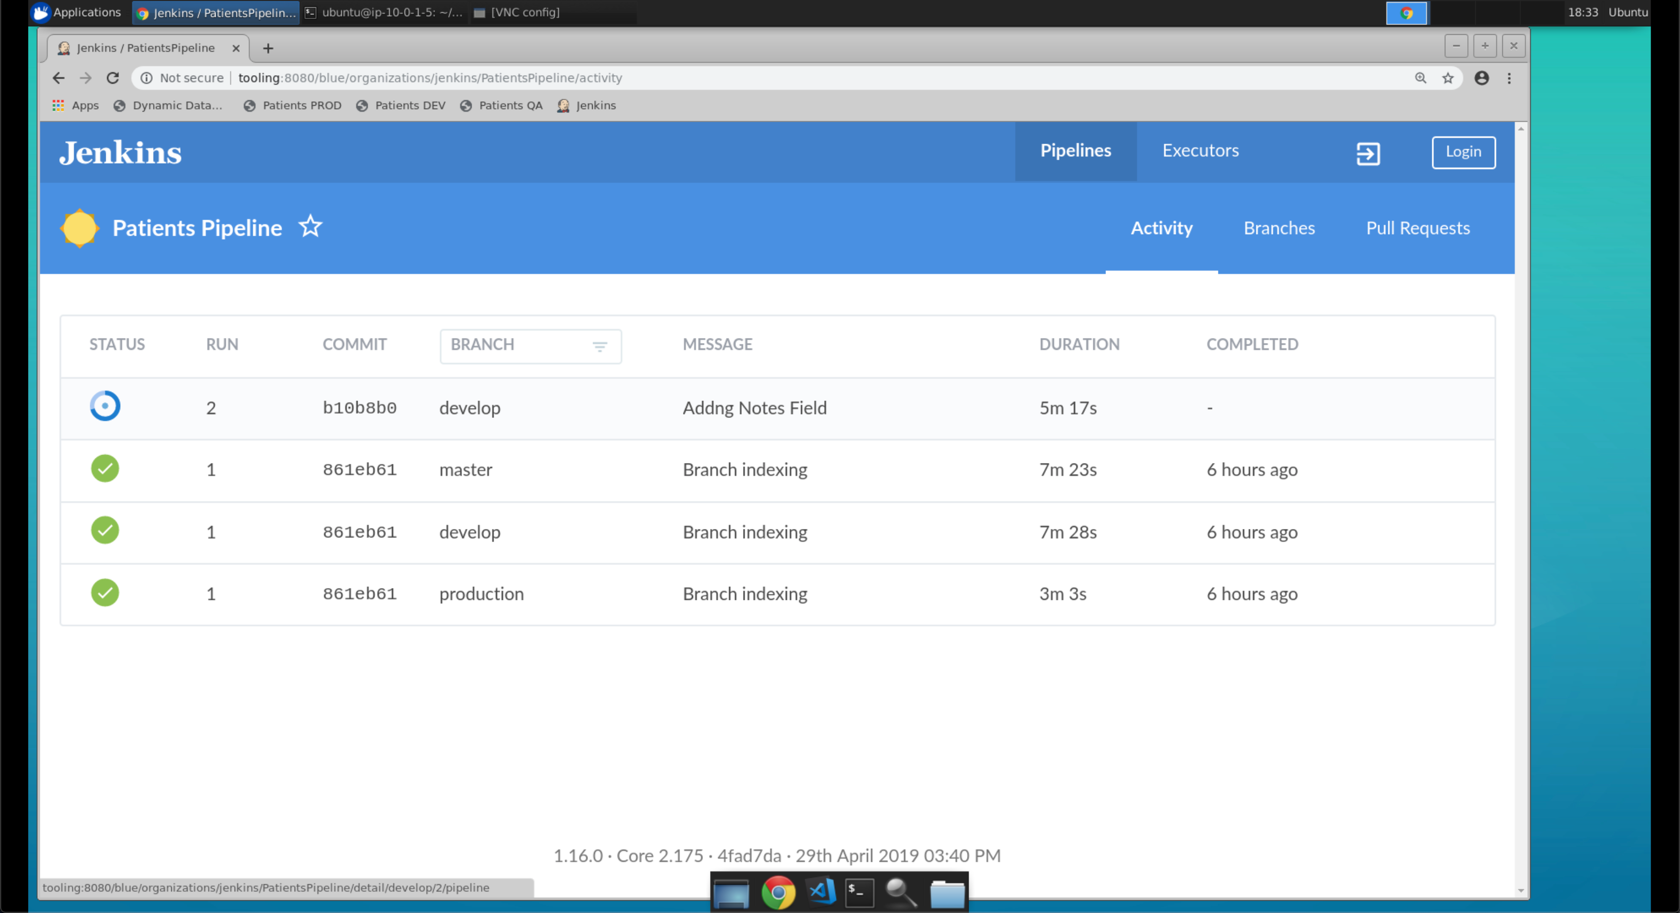
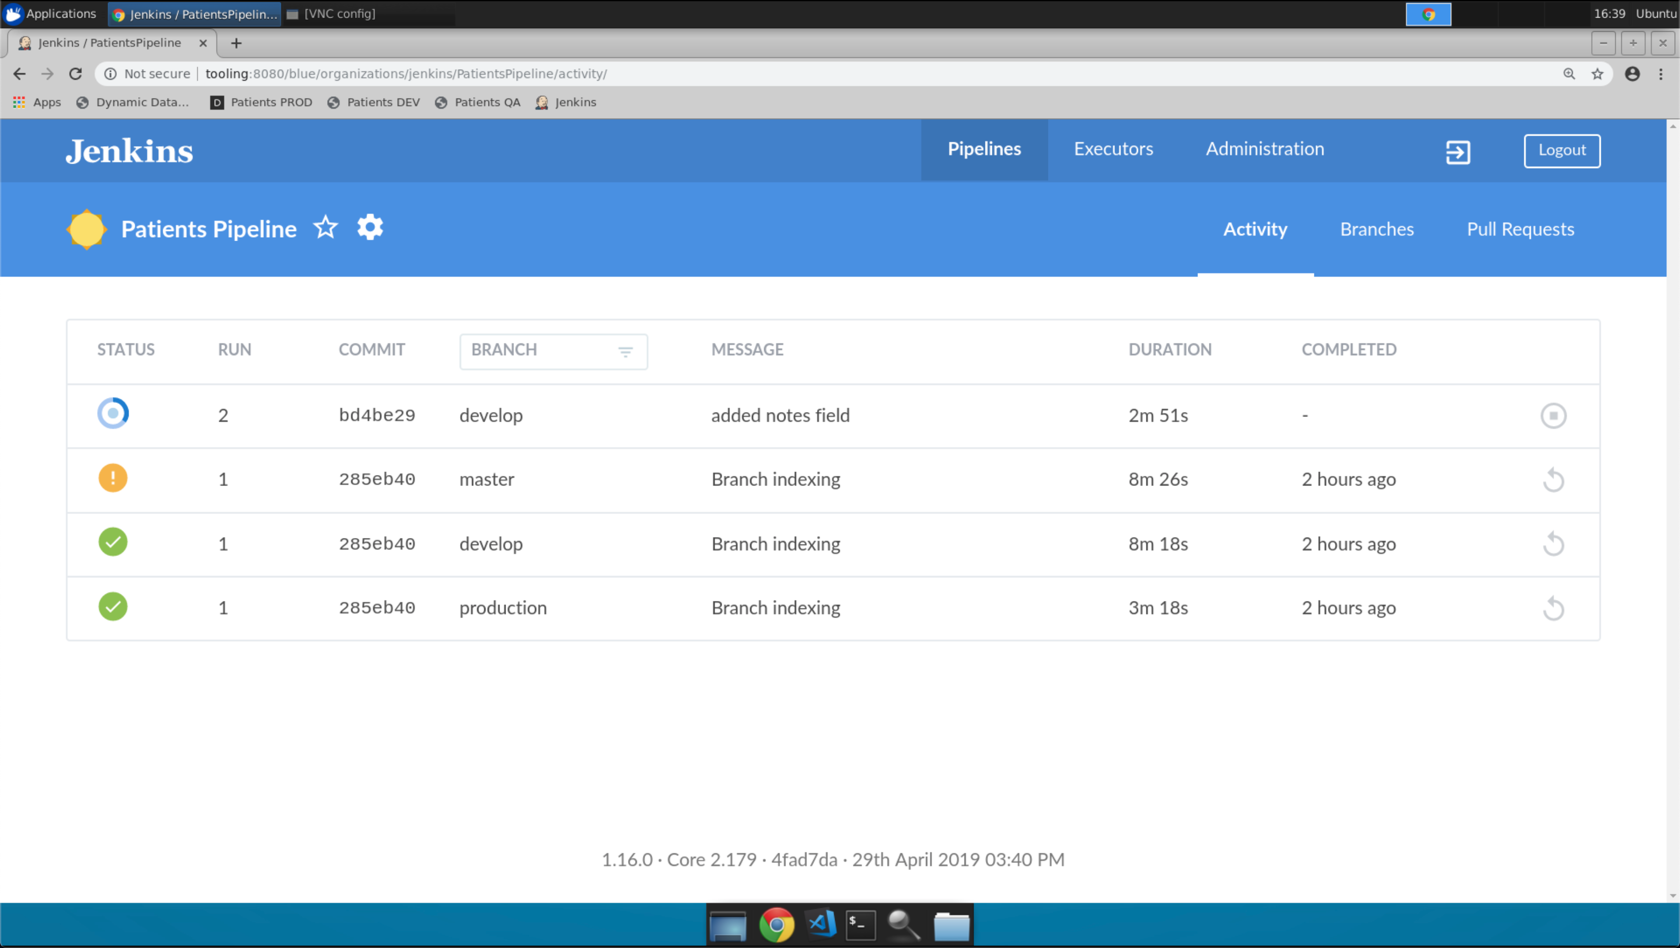
changes

diff --git a/pages/tcw/actii/tcw_actii_4.md b/pages/tcw/actii/tcw_actii_4.md
@@ -10,33 +10,48 @@ folder: tcw
 toc: false
 ---
 
-The `Automated Test` job has a red dot next to it now, which means the testing failed.
+Our Job completed, but the build is unstable (orange with an `!`).
+It appears that our tests have failed in the `Automated Testing` phase.
 
-In this scene, we will first take a look in Bugzilla to ascertain what happened. Next, we will validate the bug report against what we see in QA. Finally, we will look at the corresponding bookmark on our QA data pod in the Delphix DDP.
+In this scene, we will first take a look at the test artifacts in Jenkins to ascertain what happened.
+Next, we will login to Bugzilla and validate the bug report against what we see in QA.
+Finally, we will look at the corresponding bookmark on our `Test` data pod in the Delphix DDP.
 
 ### YOUR STEPS FOR THIS SCENE:
 
-1. Activate the Bugzilla tab.
-2. Click Browse
-   {% include custom/image_popout.html file="acti/oh_snap_a_bug_1.png" %}
-3. Click TestComponent
-   {% include custom/image_popout.html file="acti/oh_snap_a_bug_2.png" %}
-4. Click on the most recent job. It is #3 in the example below. The job name in the summary should match the Automated Testing job number you captured from the last scene.
-   {% include custom/image_popout.html file="acti/oh_snap_a_bug_3.png" %}
-5. View the different objects in the bug. Can you figure out what went wrong?
-6. Click after_test.png. Egads! All 1M employee records have been deleted! That’s not good.
-   {% include custom/image_popout.html file="acti/oh_snap_a_bug_4.png" %}
-7. Let’s reconcile what we see in the screenshot against the QA environment. Activate the QA Instance tab
-8. Click the QA Instance bookmark to refresh the page
-   {% include custom/image_popout.html file="acti/oh_snap_a_bug_5.png" %}
-9. Ack!
-   {% include custom/image_popout.html file="acti/oh_snap_a_bug_6.png" %}
-10. Activate the Delphix Engine tab.
-11. Login as qa, if your login has timed out.
-    {% include custom/image_popout.html file="acti/oh_snap_a_bug_7.png" %}
-12. Click on `QA Data Pod` 
-    {% include custom/image_popout.html file="acti/oh_snap_a_bug_8.png" %}
-13. Click on the most recent bookmark icon. Does it match the job number from the last scene? Does the bug tag on the bookmark match the defect in bugzilla?
-14. The bookmark has been shared back with the developer. Let’s make the dev clean up their own mess.
-    {% include custom/image_popout.html file="acti/oh_snap_a_bug_9.png" %}
+1. Activate the Jenkins tab
+2. Click on the `Tests` button (in purple rectangle below)
+   {% include custom/image_popout.html file="actii/oh_snap_a_bug_1.png" %}
+3. We can see from this screen that the `Add Duplicate User` test failed (a duplicate user was allowed)
+   {% include custom/image_popout.html file="actii/oh_snap_a_bug_2.png" %}
+4. The test failure created a bug. Let's check that out.
+5. Activate the Bugzilla tab.
+6. Click Browse
+   {% include custom/image_popout.html file="actii/oh_snap_a_bug_3.png" %}
+7. Click TestComponent
+   {% include custom/image_popout.html file="actii/oh_snap_a_bug_4.png" %}
+8. Click on the most recent job. It is #3 in the example below.
+   {% include custom/image_popout.html file="actii/oh_snap_a_bug_5.png" %}
+9. Scrolling to the bottom of the bug, we can see the test results and reported failure.
+   {% include custom/image_popout.html file="actii/oh_snap_a_bug_6.png" %}
+10. Let’s reconcile what we see in the bug report and test results against the QA environment.
+Click the `Patients QA` bookmark.
+11. Log in to the QA instance of the Patients application using [credentials](credentials.html){:target="_blank"}  
+    {% include custom/image_popout.html file="actii/oh_snap_a_bug_7.png" %}
+12. If you logged in successfully, you should see a list of patients in your browser  
+    {% include custom/image_popout.html file="actii/oh_snap_a_bug_8.png" %}
+13. The test report indicated that it failed because it was able to add a duplicate user. Click the `Users` button (purple rectangle below)
+14. Ack! We do have to users with the same username `mcred`. This could cause significant issues as our product rollout expands.
+    {% include custom/image_popout.html file="actii/oh_snap_a_bug_9.png" %}
+15. Activate the Dynamic Data Platform tab.
+16. Login as qa, if your login has timed out.
+    {% include custom/image_popout.html file="actii/automated_testing_4.png" %}
+17. Click on `Test` 
+    {% include custom/image_popout.html file="actii/automated_testing_6.png" %}
+18. Click on the most recent bookmark icon.
+Does it match the job number from Jenkins?
+Does the bug tag on the bookmark match the defect in bugzilla?
+    {% include custom/image_popout.html file="actii/oh_snap_a_bug_10.png" %}
+19. The bookmark has been shared back with the developer. Let’s make the dev clean up their own mess.
+
 {% include links.html %}

diff --git a/pages/tcw/actii/tcw_actii_2.md b/pages/tcw/actii/tcw_actii_2.md
@@ -10,7 +10,8 @@ folder: tcw
 toc: false
 ---
 
-Once we pushed our code upstream, that triggered an automation testing sequence. The automated testing sequence takes about 5 to 6 minutes to complete. We will make use of the majority of that time in the next scene.
+Once we pushed our code upstream, that triggered the next phase in the build sequence which includes building and testing in the QA environment.
+The automated testing sequence takes about 5 to 6 minutes to complete. We will make use of the majority of that time in the next scene.
 
 In this scene, we are going view the running automation sequence in Jenkins and view the jobs running against your QA data pod
 
@@ -18,16 +19,24 @@ In this scene, we are going view the running automation sequence in Jenkins and 
 
 1. Bring Chrome to the foreground
 2. Activate the Jenkins tab
-3. View the running jobs in the Build Executor Status box
-   {% include custom/image_popout.html file="acti/automated_testing_1.png" %}
-4. Activate the Delphix Engine tab
-5. Login as the qa user. The password is delphix
-   {% include custom/image_popout.html file="acti/automated_testing_2.png" %}
-6. If this is your first login, you will be prompted to change the password. Set the password to delphix
-   {% include custom/image_popout.html file="acti/automated_testing_3.png" %}
-7. You should now be in the Data Operations screen. Click on `QA Data Pod` 
-   {% include custom/image_popout.html file="acti/automated_testing_4.png" %}
-8. You should now see the timeline for `QA Data Pod` . In a couple minutes, or less, you should see the screen change and a status bar indicating the progress of “Operating on Container.” This change shows that your data pod is being refreshed with the latest data from production.
-   {% include custom/image_popout.html file="acti/automated_testing_5.png" %}
+3. Click on `Patients Pipeline`
+   {% include custom/image_popout.html file="actii/automated_testing_1.png" %}
+4. Click on the running job for the `master` branch
+   {% include custom/image_popout.html file="actii/automated_testing_2.png" %}
+5. This is the current build which will include some automated testing.
+   {% include custom/image_popout.html file="actii/automated_testing_3.png" %}
+6. Open the Dynamic Data Platform bookmark in a new tab
+7. Login as the qa user. The password is delphix
+   {% include custom/image_popout.html file="actii/automated_testing_4.png" %}
+8. If this is your first login, you will be prompted to change the password. Set the password to delphix
+   {% include custom/image_popout.html file="actii/automated_testing_5.png" %}
+9. You should now be in the Data Operations screen. Click on `Test`
+   {% include custom/image_popout.html file="actii/automated_testing_6.png" %}
+10. You should now see the timeline for `Test` data pod. In a couple minutes, or less, you should see the screen 
+change and a status bar indicating the progress of “Operating on Container.” This change shows that your data pod 
+is being refreshed with the latest data from production.
+    {% include custom/image_popout.html file="actii/automated_testing_7.png" %}
+11. When the refresh is complete, the self-service controls will change from gray to red and look like the below.
+    {% include custom/image_popout.html file="actii/automated_testing_8.png" %}
 
 {% include links.html %}

diff --git a/pages/tcw/actii/tcw_actii_1.md b/pages/tcw/actii/tcw_actii_1.md
@@ -14,7 +14,8 @@ Now that we validated our changes worked in our development environment, it is t
 
 {% capture eclipse_steps %}
 1. Launch VS Code, bring it to the foreground, and click on the Explorer Button (in yellow square, below)
-2. Click the sync icon across the bottom (in yellow square, below) OR by using the `more actions` menu and selecting `pull`
+2. Click the sync icon across the bottom (in yellow square, below) OR by using the `more actions` menu and selecting `pull`  
+   {% include note.html content="DO NOT SKIP THIS STEP" %}
    {% include custom/image_popout.html file="actii/works_in_my_environment_vscode_1.png" %}
 3. Click 'OK' if you are prompted to confirm.
 4. Click on `develop` in the checkout menu (in yellow rectangle) and select `master` (in purple oval).

diff --git a/pages/tcw/actii/tcw_actii_3.md b/pages/tcw/actii/tcw_actii_3.md
@@ -10,6 +10,8 @@ folder: tcw
 toc: false
 ---
 
+{% include warning.html content="OUTDATED, TO BE REPLACED" %}
+
 While we wait for the remainder of the Automated Testing job to finish, we will go over some of the details of what is actually happening. The format of this scene will differ a little bit, as you will execute steps as we go along and explain some things.
 
 ### YOUR STEPS FOR THIS SCENE:
